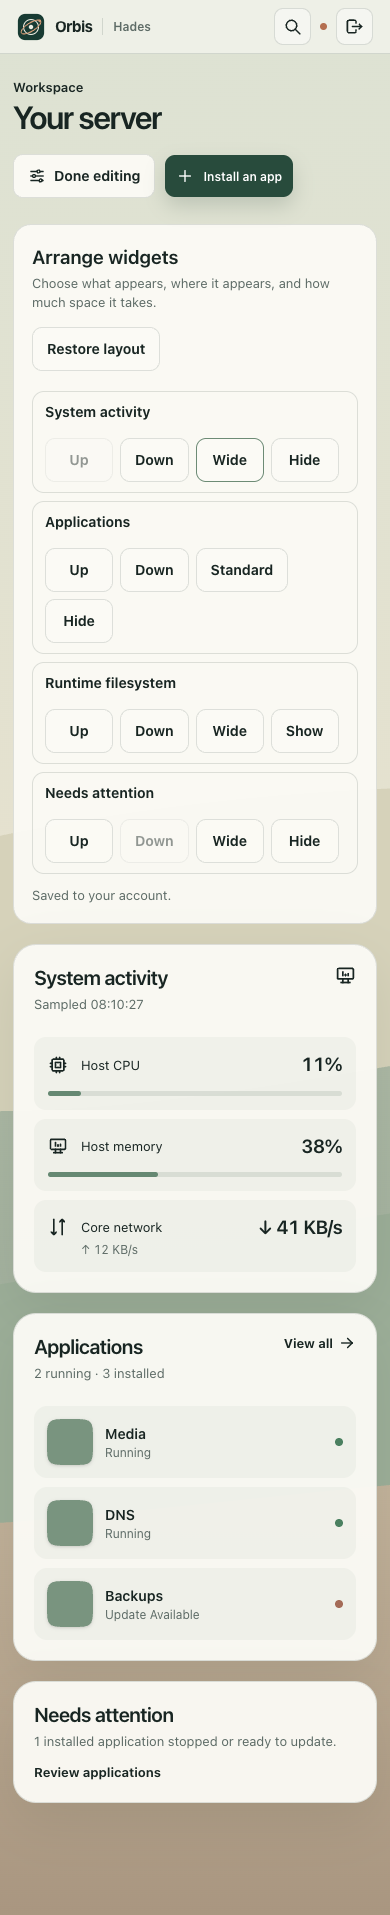
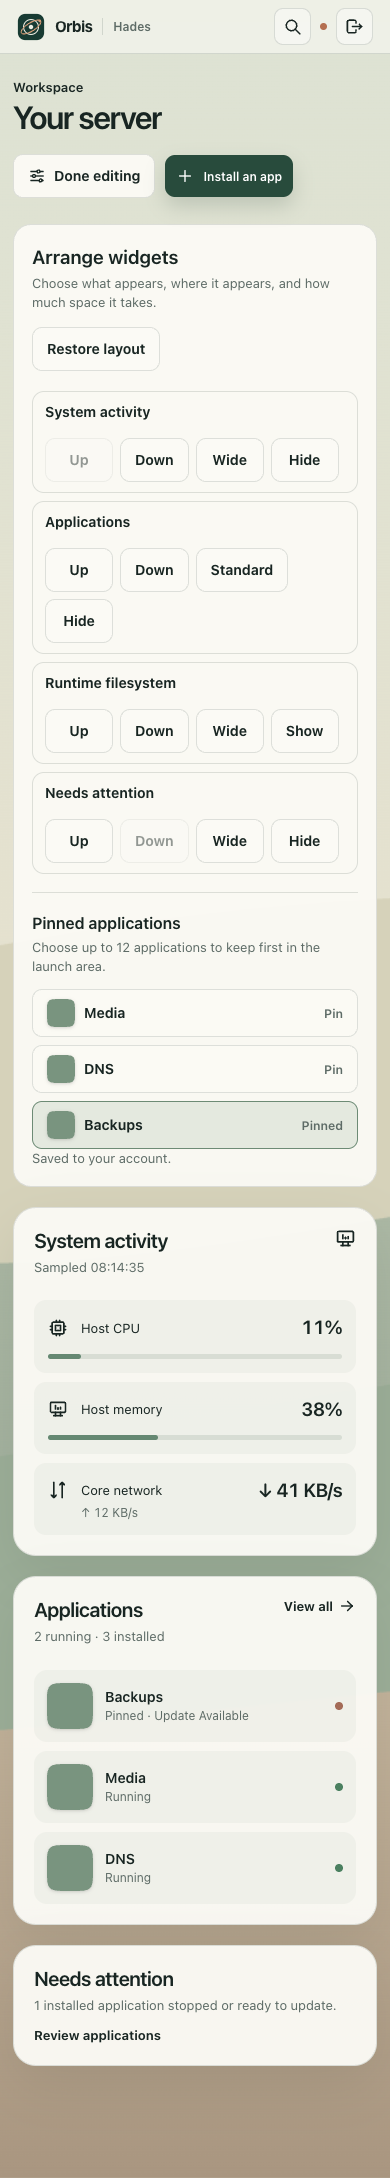
Add per-user application pinning to Workspace

diff --git a/packages/frontend/src/modules/dashboard/pages/dashboard.tsx b/packages/frontend/src/modules/dashboard/pages/dashboard.tsx
@@ -52,6 +52,17 @@ export default function Dashboard() {
     refetchIntervalInBackground: false,
   });
   const installed = apps.data?.installed.filter(({ info }) => info.available) ?? [];
+  const orderedInstalled = [...installed].sort((left, right) => {
+    const leftPin = workspace.pinnedApps.indexOf(left.info.urn);
+    const rightPin = workspace.pinnedApps.indexOf(right.info.urn);
+    if (leftPin < 0 && rightPin < 0) return 0;
+    if (leftPin < 0) return 1;
+    if (rightPin < 0) return -1;
+    return leftPin - rightPin;
+  });
+  const installedUrns = new Set(installed.map(({ info }) => info.urn));
+  const missingPins = workspace.pinnedApps.filter((urn) => !installedUrns.has(urn));
+  const visibleInstalled = orderedInstalled.slice(0, Math.max(8, workspace.pinnedApps.length - missingPins.length));
   const running = installed.filter(({ app }) => app.status === 'running').length;
   const attention = installed.filter(({ app, metadata }) => app.status === 'stopped' || Number(app.version) < Number(metadata.latestVersion)).length;
   const disk = system.data?.filesystems.find((filesystem) => filesystem.mount === '/') ?? system.data?.filesystems[0];
@@ -83,6 +94,11 @@ export default function Dashboard() {
   const toggle = (id: WidgetId, field: 'hidden' | 'wide') => {
     const current = workspace[field];
     saveWorkspace({ ...workspace, [field]: current.includes(id) ? current.filter((item) => item !== id) : [...current, id] });
+  };
+  const togglePin = (urn: string) => {
+    const current = workspace.pinnedApps;
+    if (!current.includes(urn) && current.length >= 12) return;
+    saveWorkspace({ ...workspace, pinnedApps: current.includes(urn) ? current.filter((item) => item !== urn) : [...current, urn] });
   };
 
   const widgets: Record<WidgetId, ReactNode> = {
@@ -124,7 +140,7 @@ export default function Dashboard() {
         ) : null}
         {installed.length > 0 ? (
           <div className="workspace-app-list">
-            {installed.slice(0, 8).map(({ app, info, metadata }) => {
+            {visibleInstalled.map(({ app, info, metadata }) => {
               const [appId, storeId] = info.urn.split(':');
               const appUpdate = Number(app.version) < Number(metadata.latestVersion) && app.ignoredVersion !== metadata.latestVersion;
               return (
@@ -132,12 +148,12 @@ export default function Dashboard() {
                   key={info.urn}
                   to={`/apps/${storeId}/${appId}`}
                   className="workspace-app"
-                  aria-label={`${info.name}, ${app.status}${appUpdate ? ', update available' : ''}`}
+                  aria-label={`${info.name}, ${app.status}${appUpdate ? ', update available' : ''}${workspace.pinnedApps.includes(info.urn) ? ', pinned' : ''}`}
                 >
                   <AppLogo urn={info.urn} size={46} alt="" />
                   <span className="workspace-app-copy">
                     <strong>{info.name}</strong>
-                    <small>{appUpdate ? 'Update available' : app.status}</small>
+                    <small>{`${workspace.pinnedApps.includes(info.urn) ? 'Pinned · ' : ''}${appUpdate ? 'Update available' : app.status}`}</small>
                   </span>
                   <span className={`workspace-app-status ${app.status}`} aria-hidden="true" />
                 </Link>
@@ -272,6 +288,7 @@ export default function Dashboard() {
                   order: [...defaultDesktopPreferences.workspace.order],
                   hidden: [],
                   wide: [...defaultDesktopPreferences.workspace.wide],
+                  pinnedApps: [...workspace.pinnedApps],
                 })
               }
             >
@@ -312,6 +329,44 @@ export default function Dashboard() {
               </li>
             ))}
           </ol>
+          <div className="workspace-pin-editor">
+            <div>
+              <h3>Pinned applications</h3>
+              <p>Choose up to 12 applications to keep first in the launch area.</p>
+            </div>
+            {apps.isPending ? <p>Loading installed applications…</p> : null}
+            {apps.isError ? <p role="alert">Applications could not be loaded. Pinning is unavailable right now.</p> : null}
+            {apps.data && installed.length === 0 ? <p>Install an application to pin it here.</p> : null}
+            {installed.length > 0 ? (
+              <div className="workspace-pin-list">
+                {installed.map(({ info }) => {
+                  const pinned = workspace.pinnedApps.includes(info.urn);
+                  return (
+                    <button
+                      key={info.urn}
+                      type="button"
+                      aria-pressed={pinned}
+                      aria-label={`${pinned ? 'Unpin' : 'Pin'} ${info.name}`}
+                      disabled={!pinned && workspace.pinnedApps.length >= 12}
+                      onClick={() => togglePin(info.urn)}
+                    >
+                      <AppLogo urn={info.urn} size={28} alt="" />
+                      <span>{info.name}</span>
+                      <small>{pinned ? 'Pinned' : 'Pin'}</small>
+                    </button>
+                  );
+                })}
+              </div>
+            ) : null}
+            {missingPins.length > 0 ? (
+              <button
+                type="button"
+                onClick={() => saveWorkspace({ ...workspace, pinnedApps: workspace.pinnedApps.filter((urn) => installedUrns.has(urn)) })}
+              >
+                Remove {missingPins.length} unavailable pin{missingPins.length === 1 ? '' : 's'}
+              </button>
+            ) : null}
+          </div>
           <p className="workspace-editor-sync" role={syncState === 'error' ? 'alert' : undefined}>
             {syncState === 'saving'
               ? 'Saving layout…'

diff --git a/packages/frontend/src/desktop/preferences.tsx b/packages/frontend/src/desktop/preferences.tsx
@@ -4,7 +4,7 @@ import { useUIStore } from '@/stores/ui-store';
 
 export const widgetIds = ['applications', 'activity', 'storage', 'attention'] as const;
 export type WidgetId = (typeof widgetIds)[number];
-export type WorkspacePreferences = { order: WidgetId[]; hidden: WidgetId[]; wide: WidgetId[] };
+export type WorkspacePreferences = { order: WidgetId[]; hidden: WidgetId[]; wide: WidgetId[]; pinnedApps: string[] };
 
 export type DesktopPreferences = {
   serverName: string;
@@ -19,20 +19,30 @@ export const defaultDesktopPreferences: DesktopPreferences = {
   preset: 'frost',
   density: 'comfortable',
   wallpaper: 'sandstone',
-  workspace: { order: [...widgetIds], hidden: [], wide: ['applications', 'activity'] },
+  workspace: { order: [...widgetIds], hidden: [], wide: ['applications', 'activity'], pinnedApps: [] },
 };
 const STORAGE_KEY = 'server-desktop-preferences-v1';
 
-type StoredDesktopPreferences = Omit<DesktopPreferences, 'wallpaper' | 'workspace'> & Partial<Pick<DesktopPreferences, 'wallpaper' | 'workspace'>>;
+type StoredWorkspacePreferences = Omit<WorkspacePreferences, 'pinnedApps'> & Partial<Pick<WorkspacePreferences, 'pinnedApps'>>;
+type StoredDesktopPreferences = Omit<DesktopPreferences, 'wallpaper' | 'workspace'> &
+  Partial<Pick<DesktopPreferences, 'wallpaper'>> & { workspace?: StoredWorkspacePreferences };
 
 const isWidgetList = (value: unknown): value is WidgetId[] =>
   Array.isArray(value) && value.length <= widgetIds.length && new Set(value).size === value.length && value.every((item) => widgetIds.includes(item));
 
-export const isWorkspacePreferences = (value: unknown): value is WorkspacePreferences => {
+export const isWorkspacePreferences = (value: unknown): value is StoredWorkspacePreferences => {
   if (!value || typeof value !== 'object') return false;
   const workspace = value as Record<string, unknown>;
   return (
-    isWidgetList(workspace.order) && workspace.order.length === widgetIds.length && isWidgetList(workspace.hidden) && isWidgetList(workspace.wide)
+    isWidgetList(workspace.order) &&
+    workspace.order.length === widgetIds.length &&
+    isWidgetList(workspace.hidden) &&
+    isWidgetList(workspace.wide) &&
+    (workspace.pinnedApps === undefined ||
+      (Array.isArray(workspace.pinnedApps) &&
+        workspace.pinnedApps.length <= 12 &&
+        new Set(workspace.pinnedApps).size === workspace.pinnedApps.length &&
+        workspace.pinnedApps.every((urn) => typeof urn === 'string' && urn.length > 2 && urn.length <= 180 && /^[^:]+:[^:]+$/.test(urn))))
   );
 };
 
@@ -53,7 +63,7 @@ export const isPreferences = (value: unknown): value is StoredDesktopPreferences
 export const normalisePreferences = (value: StoredDesktopPreferences): DesktopPreferences => ({
   ...defaultDesktopPreferences,
   ...value,
-  workspace: value.workspace ?? defaultDesktopPreferences.workspace,
+  workspace: { ...defaultDesktopPreferences.workspace, ...value.workspace },
 });
 
 type PreferenceContext = {

diff --git a/packages/backend/src/modules/desktop-preferences/desktop-preferences.test.ts b/packages/backend/src/modules/desktop-preferences/desktop-preferences.test.ts
@@ -91,7 +91,7 @@ describe('desktop preferences', () => {
       .set('Authorization', 'Bearer test')
       .send({ ...DEFAULT_DESKTOP_PREFERENCES, workspace });
     expect(saved.status).toBe(200);
-    expect(saved.body.workspace).toEqual(workspace);
+    expect(saved.body.workspace).toEqual({ ...workspace, pinnedApps: [] });
     const invalid = await request(app.getHttpServer())
       .put('/desktop-preferences')
       .set('Authorization', 'Bearer test')
@@ -102,5 +102,28 @@ describe('desktop preferences', () => {
       .set('Authorization', 'Bearer test')
       .send({ ...DEFAULT_DESKTOP_PREFERENCES, workspace: { ...workspace, hidden: ['admin-shell'] } });
     expect(unknown.status).toBe(400);
+  });
+
+  it('keeps old widget layouts and validates pinned app identities', async () => {
+    const workspace = { order: ['applications', 'activity', 'storage', 'attention'], hidden: [], wide: ['applications'] };
+    await fs.writeFile(path.join(directory, 'state', 'desktop', '7.json'), JSON.stringify({ ...DEFAULT_DESKTOP_PREFERENCES, workspace }));
+    const inherited = await request(app.getHttpServer()).get('/desktop-preferences').set('Authorization', 'Bearer test');
+    expect(inherited.body.workspace).toEqual({ ...workspace, pinnedApps: [] });
+    const saved = await request(app.getHttpServer())
+      .put('/desktop-preferences')
+      .set('Authorization', 'Bearer test')
+      .send({ ...DEFAULT_DESKTOP_PREFERENCES, workspace: { ...workspace, pinnedApps: ['whoami:migrated'] } });
+    expect(saved.status).toBe(200);
+    expect(saved.body.workspace.pinnedApps).toEqual(['whoami:migrated']);
+    const invalid = await request(app.getHttpServer())
+      .put('/desktop-preferences')
+      .set('Authorization', 'Bearer test')
+      .send({ ...DEFAULT_DESKTOP_PREFERENCES, workspace: { ...workspace, pinnedApps: ['whoami:migrated', 'whoami:migrated'] } });
+    expect(invalid.status).toBe(400);
+    const malformed = await request(app.getHttpServer())
+      .put('/desktop-preferences')
+      .set('Authorization', 'Bearer test')
+      .send({ ...DEFAULT_DESKTOP_PREFERENCES, workspace: { ...workspace, pinnedApps: [':migrated'] } });
+    expect(malformed.status).toBe(400);
   });
 });

diff --git a/packages/backend/src/modules/desktop-preferences/desktop-preferences.service.ts b/packages/backend/src/modules/desktop-preferences/desktop-preferences.service.ts
@@ -7,7 +7,7 @@ import path from 'node:path';
 import { desktopPreferencesSchema } from './desktop-preferences.dto';
 
 export type DesktopPreferences = typeof desktopPreferencesSchema.infer;
-export const DEFAULT_DESKTOP_PREFERENCES: DesktopPreferences = {
+export const DEFAULT_DESKTOP_PREFERENCES: DesktopPreferences & { workspace: NonNullable<DesktopPreferences['workspace']> } = {
   serverName: 'Hades',
   preset: 'frost',
   density: 'comfortable',
@@ -16,6 +16,7 @@ export const DEFAULT_DESKTOP_PREFERENCES: DesktopPreferences = {
     order: ['applications', 'activity', 'storage', 'attention'],
     hidden: [],
     wide: ['applications', 'activity'],
+    pinnedApps: [],
   },
 };
 
@@ -33,7 +34,13 @@ export class DesktopPreferencesService {
       const raw = await fs.readFile(this.fileFor(userId), 'utf8');
       const parsed: unknown = JSON.parse(raw);
       const result = desktopPreferencesSchema(parsed);
-      return result instanceof type.errors ? DEFAULT_DESKTOP_PREFERENCES : { ...DEFAULT_DESKTOP_PREFERENCES, ...result };
+      return result instanceof type.errors
+        ? DEFAULT_DESKTOP_PREFERENCES
+        : {
+            ...DEFAULT_DESKTOP_PREFERENCES,
+            ...result,
+            workspace: { ...DEFAULT_DESKTOP_PREFERENCES.workspace, ...result.workspace },
+          };
     } catch (error) {
       if ((error as NodeJS.ErrnoException).code === 'ENOENT') return DEFAULT_DESKTOP_PREFERENCES;
       throw error;
@@ -42,7 +49,11 @@ export class DesktopPreferencesService {
 
   async write(userId: number, preferences: DesktopPreferences): Promise<DesktopPreferences> {
     const file = this.fileFor(userId);
-    const value = { ...DEFAULT_DESKTOP_PREFERENCES, ...preferences };
+    const value = {
+      ...DEFAULT_DESKTOP_PREFERENCES,
+      ...preferences,
+      workspace: { ...DEFAULT_DESKTOP_PREFERENCES.workspace, ...preferences.workspace },
+    };
     await fs.mkdir(path.dirname(file), { recursive: true, mode: 0o700 });
     const temporary = `${file}.${process.pid}.${randomUUID()}.tmp`;
     try {

diff --git a/packages/frontend/src/modules/dashboard/pages/dashboard.css b/packages/frontend/src/modules/dashboard/pages/dashboard.css
@@ -114,6 +114,44 @@
 .workspace-editor-controls button {
   min-width: 68px;
 }
+.workspace-pin-editor {
+  padding-top: 18px;
+  margin-top: 18px;
+  border-top: 1px solid var(--desktop-line);
+}
+.workspace-pin-editor h3 {
+  margin: 0 0 3px;
+  font-size: 16px;
+}
+.workspace-pin-editor p {
+  margin: 0 0 14px;
+  color: var(--desktop-muted);
+  font-size: 13px;
+}
+.workspace-pin-list {
+  display: grid;
+  grid-template-columns: repeat(3, minmax(0, 1fr));
+  gap: 8px;
+}
+.workspace-pin-list button {
+  display: grid;
+  grid-template-columns: 28px minmax(0, 1fr);
+  align-items: center;
+  column-gap: 9px;
+  min-width: 0;
+  text-align: left;
+}
+.workspace-pin-list button[aria-pressed="true"] {
+  border-color: #6d8b75;
+  background: rgba(103, 143, 110, 0.14);
+}
+.workspace-pin-list button span:not(.app-logo) {
+  min-width: 0;
+  overflow-wrap: anywhere;
+}
+.workspace-pin-editor > button {
+  margin-top: 12px;
+}
 .workspace-all-hidden {
   grid-column: 1 / -1;
   padding: 32px;
@@ -413,6 +451,11 @@
   color: var(--desktop-muted);
   font-size: 12px;
 }
+.workspace-pin-list button small {
+  grid-column: 2;
+  color: var(--desktop-muted);
+  font-weight: 600;
+}
 .workspace-attention {
   padding: 22px 24px;
 }
@@ -424,11 +467,17 @@
   font-size: 13px;
 }
 @media (max-width: 900px) {
+  .workspace-pin-list {
+    grid-template-columns: repeat(2, minmax(0, 1fr));
+  }
   .workspace-widget-wide .workspace-app-list {
     grid-template-columns: repeat(2, minmax(0, 1fr));
   }
 }
 @media (max-width: 700px) {
+  .workspace-pin-list {
+    grid-template-columns: 1fr;
+  }
   .workspace-grid {
     grid-template-columns: 1fr;
   }

diff --git a/packages/backend/src/modules/desktop-preferences/desktop-preferences.dto.ts b/packages/backend/src/modules/desktop-preferences/desktop-preferences.dto.ts
@@ -7,6 +7,9 @@ const workspace = type({
   order: widgetList,
   hidden: widgetList,
   wide: widgetList,
+  'pinnedApps?': type('string > 2 & string <= 180')
+    .array()
+    .narrow((items) => items.length <= 12 && new Set(items).size === items.length && items.every((item) => /^[^:]+:[^:]+$/.test(item))),
 }).narrow(({ order }) => order.length === 4);
 
 export const desktopPreferencesSchema = type({
